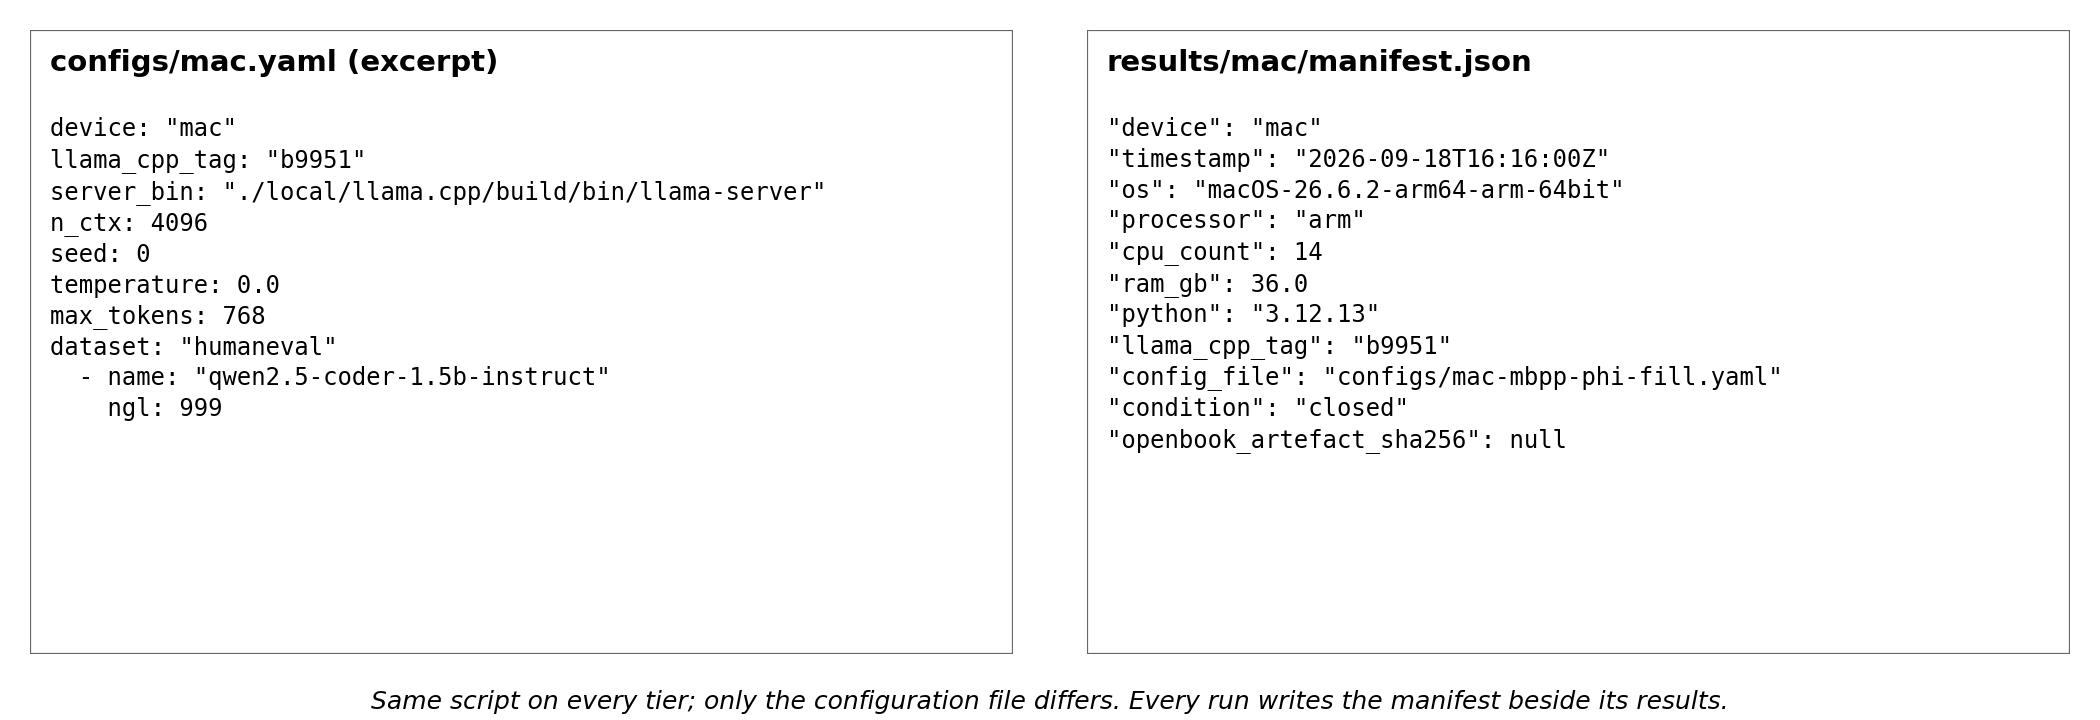
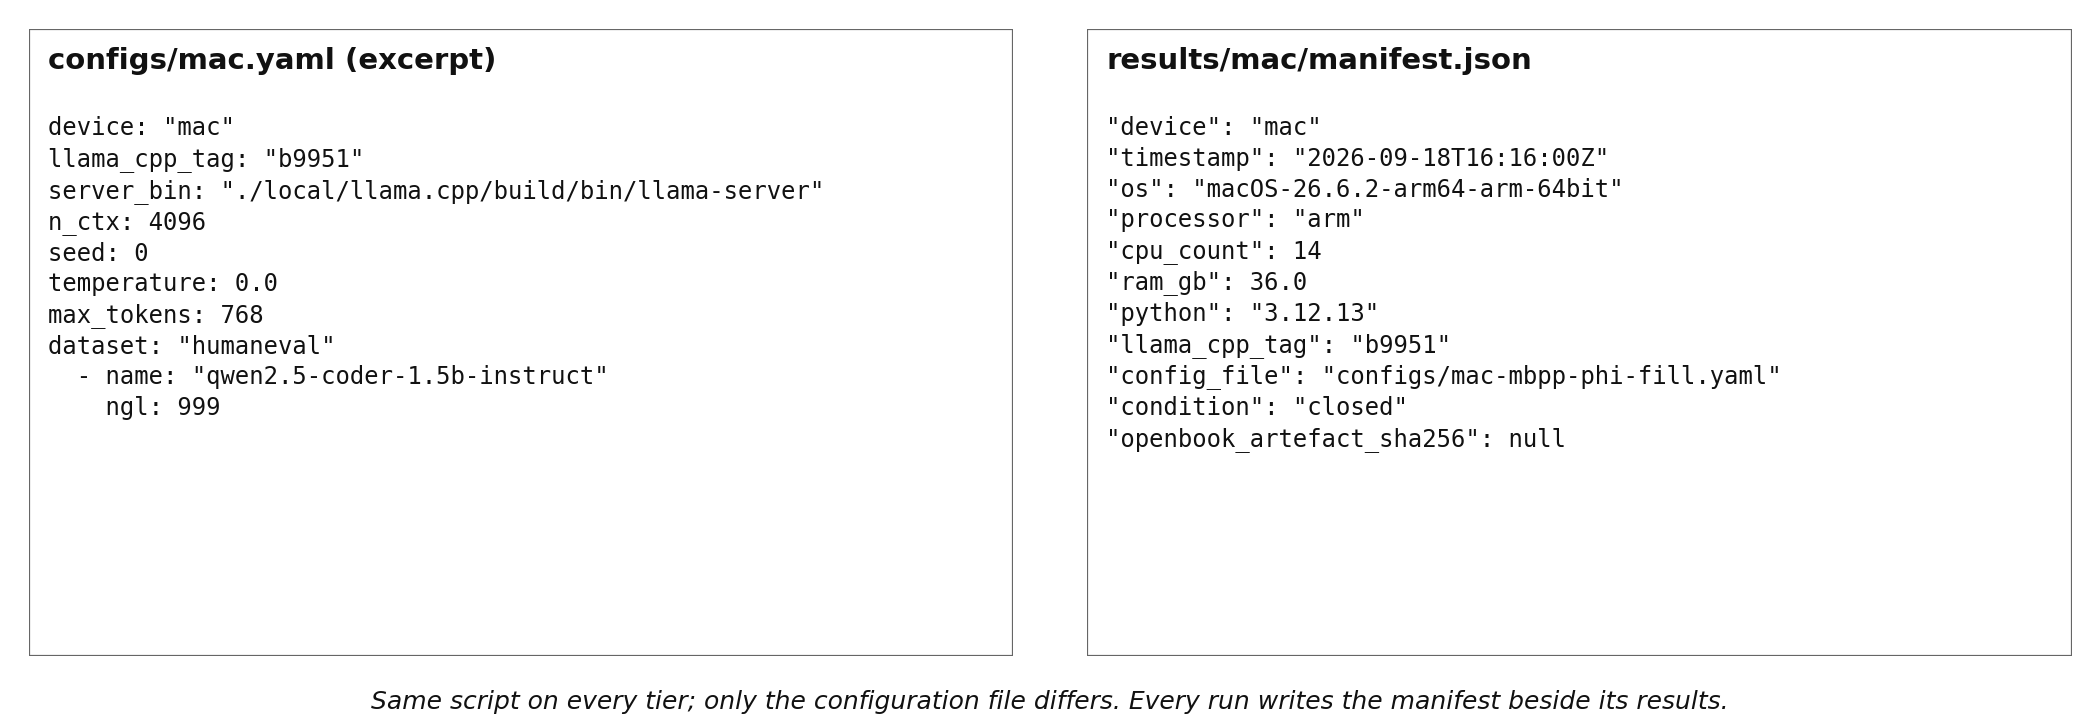
Project update

diff --git a/irp/analysis/make_fig_results.py b/irp/analysis/make_fig_results.py
@@ -1,0 +1,93 @@
+"""Compact, print-sized versions of the results figures (6.4 in wide, 300 dpi, fonts 9–10 pt, no in-image titles or
+footers; the caption carries the message, the tables carry the p-values):
+  fig4-2_throughput.png  median decode tokens/s per tier and rung (log), one panel per model
+  fig4-3_energy.png      gross J/token per tier and rung (log), one panel per model
+  fig4-5_conditions.png  HumanEval+ pass@1 under the context conditions, panels stacked
+  fig4-6_scale.png       7B closed/open ladders beside the 1.5B, and the memory-matched bars
+Data: the per-problem eval snapshots and the latest closed-book perf row per cell."""
+import os, csv, glob, json
+import numpy as np
+import matplotlib; matplotlib.use("Agg")
+import matplotlib.pyplot as plt
+
+HERE = os.path.dirname(os.path.abspath(__file__)); ROOT = os.path.dirname(os.path.dirname(HERE))
+PILOT = os.path.join(ROOT, "proposal-dev", "pilot"); ER = os.path.join(PILOT, "eval-results", "mac"); OUT = os.path.join(HERE, "figures")
+Q = ["F16", "Q8_0", "Q4_K_M", "Q3_K_M", "Q2_K"]; X = list(range(5))
+QW, PH, B7 = "qwen2.5-coder-1.5b-instruct", "phi-3-mini-4k-instruct", "qwen2.5-coder-7b-instruct"
+BLUE, ORANGE, GREEN, PURPLE, INK = "#1f4e9c", "#c8551a", "#1b8a5a", "#6f4ca8", "#111111"
+plt.rcParams.update({"font.size": 9, "axes.labelsize": 9, "xtick.labelsize": 8.5, "ytick.labelsize": 8.5, "legend.fontsize": 8.5,
+                     "axes.spines.top": False, "axes.spines.right": False, "legend.frameon": False})
+
+def p1(model, q, cond=""):
+    suf = "" if cond in ("", "closed") else "_" + cond
+    d = json.load(open(os.path.join(ER, f"samples_{model}_{q}{suf}-sanitized_eval_results.json"), encoding="utf-8"))["eval"]
+    return float(np.mean([1 if d[t][0]["plus_status"] == "pass" else 0 for t in d]))
+def ladder(model, cond=""): return [p1(model, q, cond) for q in Q]
+
+def perf(dev):
+    rows = []
+    for f in sorted(glob.glob(os.path.join(PILOT, "results", dev, "perf_results_2026*.csv"))):
+        if "open" in os.path.basename(f): continue
+        rows += list(csv.DictReader(open(f, encoding="utf-8")))
+    d = {}
+    for r in rows:   # latest row per (model, quant) wins (files sorted by timestamp)
+        if "imat" in r["model"]: continue
+        d[(r["model"], r["quant"])] = r
+    return d
+PERF = {dev: perf(dev) for dev in ("mac", "jetson", "pi5")}
+TIERS = [("mac", "MacBook (Metal)", BLUE), ("jetson", "Jetson (CUDA)", ORANGE), ("pi5", "Pi 5 (CPU)", GREEN)]
+def series(dev, model, field):
+    out = []
+    for q in Q:
+        r = PERF[dev].get((model, q))
+        v = float(r[field]) if r and r[field] not in ("", "None") else np.nan
+        out.append(v)
+    return out
+
+# ---- Figure 4.2: throughput
+fig, axes = plt.subplots(1, 2, figsize=(6.4, 3.3), sharey=True)
+for ax, (m, lab) in zip(axes, ((QW, "Qwen2.5-Coder-1.5B"), (PH, "Phi-3-mini-3.8B"))):
+    for dev, dl, c in TIERS: ax.plot(X, series(dev, m, "median_tok_s"), "-o", color=c, lw=1.8, ms=5, label=dl)
+    ax.set_yscale("log"); ax.set_xticks(X); ax.set_xticklabels(Q, fontsize=8); ax.grid(True, which="both", axis="y", alpha=0.3)
+    ax.text(0.02, 0.97, lab, transform=ax.transAxes, va="top", fontsize=9, weight="bold")
+    ax.axhspan(8, 10, color="0.85", alpha=0.6, lw=0)
+axes[0].set_ylabel("median decode tokens/s"); fig.legend(*axes[0].get_legend_handles_labels(), loc="lower center", ncol=3, bbox_to_anchor=(0.5, -0.01))
+plt.tight_layout(rect=(0, 0.07, 1, 1)); fig.savefig(os.path.join(OUT, "fig4-2_throughput.png"), dpi=300); plt.close(fig)
+
+# ---- Figure 4.3: energy per token
+fig, axes = plt.subplots(1, 2, figsize=(6.4, 3.3), sharey=True)
+for ax, (m, lab) in zip(axes, ((QW, "Qwen2.5-Coder-1.5B"), (PH, "Phi-3-mini-3.8B"))):
+    for dev, dl, c in TIERS:
+        pw, tk = series(dev, m, "mean_power_w"), series(dev, m, "median_tok_s")
+        ax.plot(X, [p / t if (not np.isnan(p) and not np.isnan(t) and t > 0) else np.nan for p, t in zip(pw, tk)], "-o", color=c, lw=1.8, ms=5, label=dl)
+    ax.set_yscale("log"); ax.set_xticks(X); ax.set_xticklabels(Q, fontsize=8); ax.grid(True, which="both", axis="y", alpha=0.3)
+    ax.text(0.02, 0.97, lab, transform=ax.transAxes, va="top", fontsize=9, weight="bold")
+axes[0].set_ylabel("energy per token (J, log)"); fig.legend(*axes[0].get_legend_handles_labels(), loc="lower center", ncol=3, bbox_to_anchor=(0.5, -0.01))
+plt.tight_layout(rect=(0, 0.07, 1, 1)); fig.savefig(os.path.join(OUT, "fig4-3_energy.png"), dpi=300); plt.close(fig)
+
+# ---- Figure 4.5: context conditions, stacked
+fig, axes = plt.subplots(2, 1, figsize=(6.4, 5.4), sharex=True)
+for ax, (m, lab, cliff) in zip(axes, ((QW, "Qwen2.5-Coder-1.5B", 4), (PH, "Phi-3-mini-3.8B", 2))):
+    ax.axvspan(cliff - 0.45, cliff + 0.45, color="#d43d51", alpha=0.07, lw=0)
+    ax.plot(X, ladder(m), "-o", color=INK, lw=2, ms=5.5, label="closed-book (A)", zorder=4)
+    ax.plot(X, ladder(m, "open"), "-s", color=BLUE, lw=1.6, ms=5.5, label="frozen BM25 documentation (B)")
+    ax.plot(X, ladder(m, "oracle"), "-^", color=GREEN, lw=1.6, ms=5.5, label="oracle-selected documentation (O)")
+    if m == QW: ax.plot(X, ladder(m, "r1"), "-D", color=PURPLE, lw=1.6, ms=5, label="model-chosen documentation, grammar (R1)")
+    ax.set_ylim(0.1, 0.75); ax.set_ylabel("HumanEval+ pass@1"); ax.grid(axis="y", alpha=0.3)
+    ax.text(0.02, 0.06, lab, transform=ax.transAxes, fontsize=9, weight="bold")
+    ax.text(cliff, 0.72, "collapse rung", ha="center", fontsize=8, color="#d43d51")
+axes[0].legend(loc="upper right", ncol=2); axes[1].set_xticks(X); axes[1].set_xticklabels(Q)
+plt.tight_layout(); fig.savefig(os.path.join(OUT, "fig4-5_conditions.png"), dpi=300); plt.close(fig)
+
+# ---- Figure 4.6: scale
+fig, (a1, a2) = plt.subplots(1, 2, figsize=(6.4, 3.4), gridspec_kw={"width_ratios": [1.7, 1]})
+b7c, b7o, qwc = ladder(B7), ladder(B7, "open"), ladder(QW)
+a1.plot(X, b7c, "-o", color=BLUE, lw=2, ms=5.5, label="7B closed-book"); a1.plot(X, b7o, "--o", color=BLUE, lw=1.4, ms=4.5, alpha=0.7, label="7B open-book")
+a1.plot(X, qwc, "-o", color=ORANGE, lw=2, ms=5.5, label="1.5B closed-book")
+a1.axhline(b7c[0] - 0.05, color=BLUE, lw=1, ls=":"); a1.set_xticks(X); a1.set_xticklabels(Q, fontsize=8); a1.set_ylim(0.3, 0.9)
+a1.set_ylabel("HumanEval+ pass@1"); a1.grid(axis="y", alpha=0.3); a1.legend(loc="lower left")
+bars = a2.bar([0, 1], [qwc[0], b7c[4]], 0.6, color=[ORANGE, BLUE])
+for b, v in zip(bars, [qwc[0], b7c[4]]): a2.text(b.get_x() + b.get_width() / 2, v + 0.01, f"{v:.3f}", ha="center", fontsize=9)
+a2.set_xticks([0, 1]); a2.set_xticklabels(["1.5B F16\n3.1 GB", "7B Q2_K\n2.9 GB"], fontsize=8); a2.set_ylim(0.3, 0.9); a2.grid(axis="y", alpha=0.3)
+plt.tight_layout(); fig.savefig(os.path.join(OUT, "fig4-6_scale.png"), dpi=300); plt.close(fig)
+print("wrote 4 figures")

diff --git a/irp/analysis/make_fig_pipeline2.py b/irp/analysis/make_fig_pipeline2.py
@@ -1,0 +1,33 @@
+"""Figure 3.1 (compact): the measurement pipeline, drawn at the printed size (6.4 in wide) with few words.
+Six stages in a row; the three tiers beneath the serve stage; the Mac tier also carries the quality axis."""
+import os
+import matplotlib; matplotlib.use("Agg")
+import matplotlib.pyplot as plt
+from matplotlib.patches import FancyBboxPatch, FancyArrowPatch
+
+HERE = os.path.dirname(os.path.abspath(__file__))
+stages = [("Quantise", "five rungs,\nno calibration"),
+          ("Serve", "llama-server b9951\nper backend"),
+          ("Generate", "greedy, seed 0\n768-token cap"),
+          ("Score", "EvalPlus\nexecution"),
+          ("Record", "per-problem JSON\nperf CSV, manifest"),
+          ("Analyse", "recompute from\nsnapshots; audit")]
+tiers = [("MacBook Pro (Metal)", "quality + cost"), ("Jetson Orin Nano (CUDA)", "cost; cross-device check"), ("Raspberry Pi 5 (CPU)", "cost; cross-device check")]
+fig, ax = plt.subplots(figsize=(6.4, 3.4)); ax.set_xlim(0, 100); ax.set_ylim(0, 54); ax.axis("off")
+W, H, G = 13.6, 20, 3.6; x0 = 1.0; y0 = 31
+for i, (t, s) in enumerate(stages):
+    x = x0 + i * (W + G)
+    ax.add_patch(FancyBboxPatch((x, y0), W, H, boxstyle="round,pad=0.4", fc="#f2f2f2", ec="black", lw=0.9))
+    ax.text(x + W / 2, y0 + H - 4.2, f"{i + 1}  {t}", ha="center", va="center", fontsize=9.5, weight="bold")
+    ax.text(x + W / 2, y0 + 7.2, s, ha="center", va="center", fontsize=7.6, color="#333333", linespacing=1.25)
+    if i < 5: ax.add_patch(FancyArrowPatch((x + W + 0.3, y0 + H / 2), (x + W + G - 0.3, y0 + H / 2), arrowstyle="-|>", mutation_scale=10, lw=1.2, color="black", zorder=5))
+TW, TH = 29, 12; ty = 5
+for j, (name, sub) in enumerate(tiers):
+    tx = 3 + j * (TW + 3.5)
+    ax.add_patch(FancyBboxPatch((tx, ty), TW, TH, boxstyle="round,pad=0.4", fc="#dcdcdc", ec="black", lw=0.9))
+    ax.text(tx + TW / 2, ty + TH - 3.6, name, ha="center", va="center", fontsize=8.4, weight="bold")
+    ax.text(tx + TW / 2, ty + 3.4, sub, ha="center", va="center", fontsize=7.6, color="#333333")
+    sx = x0 + 1 * (W + G) + W / 2
+    ax.add_patch(FancyArrowPatch((sx, y0 - 0.5), (tx + TW / 2, ty + TH + 0.5), arrowstyle="-|>", mutation_scale=8, lw=0.8, color="#444444", connectionstyle="arc3,rad=0.0"))
+ax.text(50, 1.2, "the same harness on every tier; only the per-device configuration file differs", ha="center", fontsize=7.4, style="italic", color="#444444")
+plt.tight_layout(pad=0.3); out = os.path.join(HERE, "figures", "fig3-1_pipeline2.png"); fig.savefig(out, dpi=300); print("wrote", out)

diff --git a/irp/project-log.md b/irp/project-log.md
@@ -895,3 +895,12 @@ verdict changes). New analysis from the snapshots: Table 4.2 (what is lost at th
 by model, recipe and benchmark; nine cells). Specialisation inference written out in §5.2. Methodology thresholds justified and
 registered-versus-added statistics stated. Executive summary rewritten for a lay reader. Figure 4.1 rebuilt with intervals and
 margins; deployment map reduced to symbols.
+
+## 2026-10-21 (later) — Fourth reviewer pass implemented; master now the 21 Oct file
+
+Reviewer's items recorded first (`reviewer-feedback-2026-10-21-pass4.md`) then implemented: page geometry (A4, 2.5 cm), 12 pt
+captions, split lists, numbered H3s, ToC bookmark collision fixed; Figures 4.2, 4.3 and 4.5 redrawn at the printed size and the
+pipeline figure restored as Figure 3.1; Qwen2.5-Coder and Phi-3 technical reports and the ACM Code cited (51 references, et al. and
+DOI usage made consistent); quantisation background paragraph; E2b, E6 and E4-α design in the body; social, commercial and
+professional issues stated; Table 4.5 numeric; MBPP+ reversal decomposed per problem; §5.1 walks the objectives; §6.3 gives each
+direction its reason and design. Declared count 8971 (8677 body + 294 in figures).
